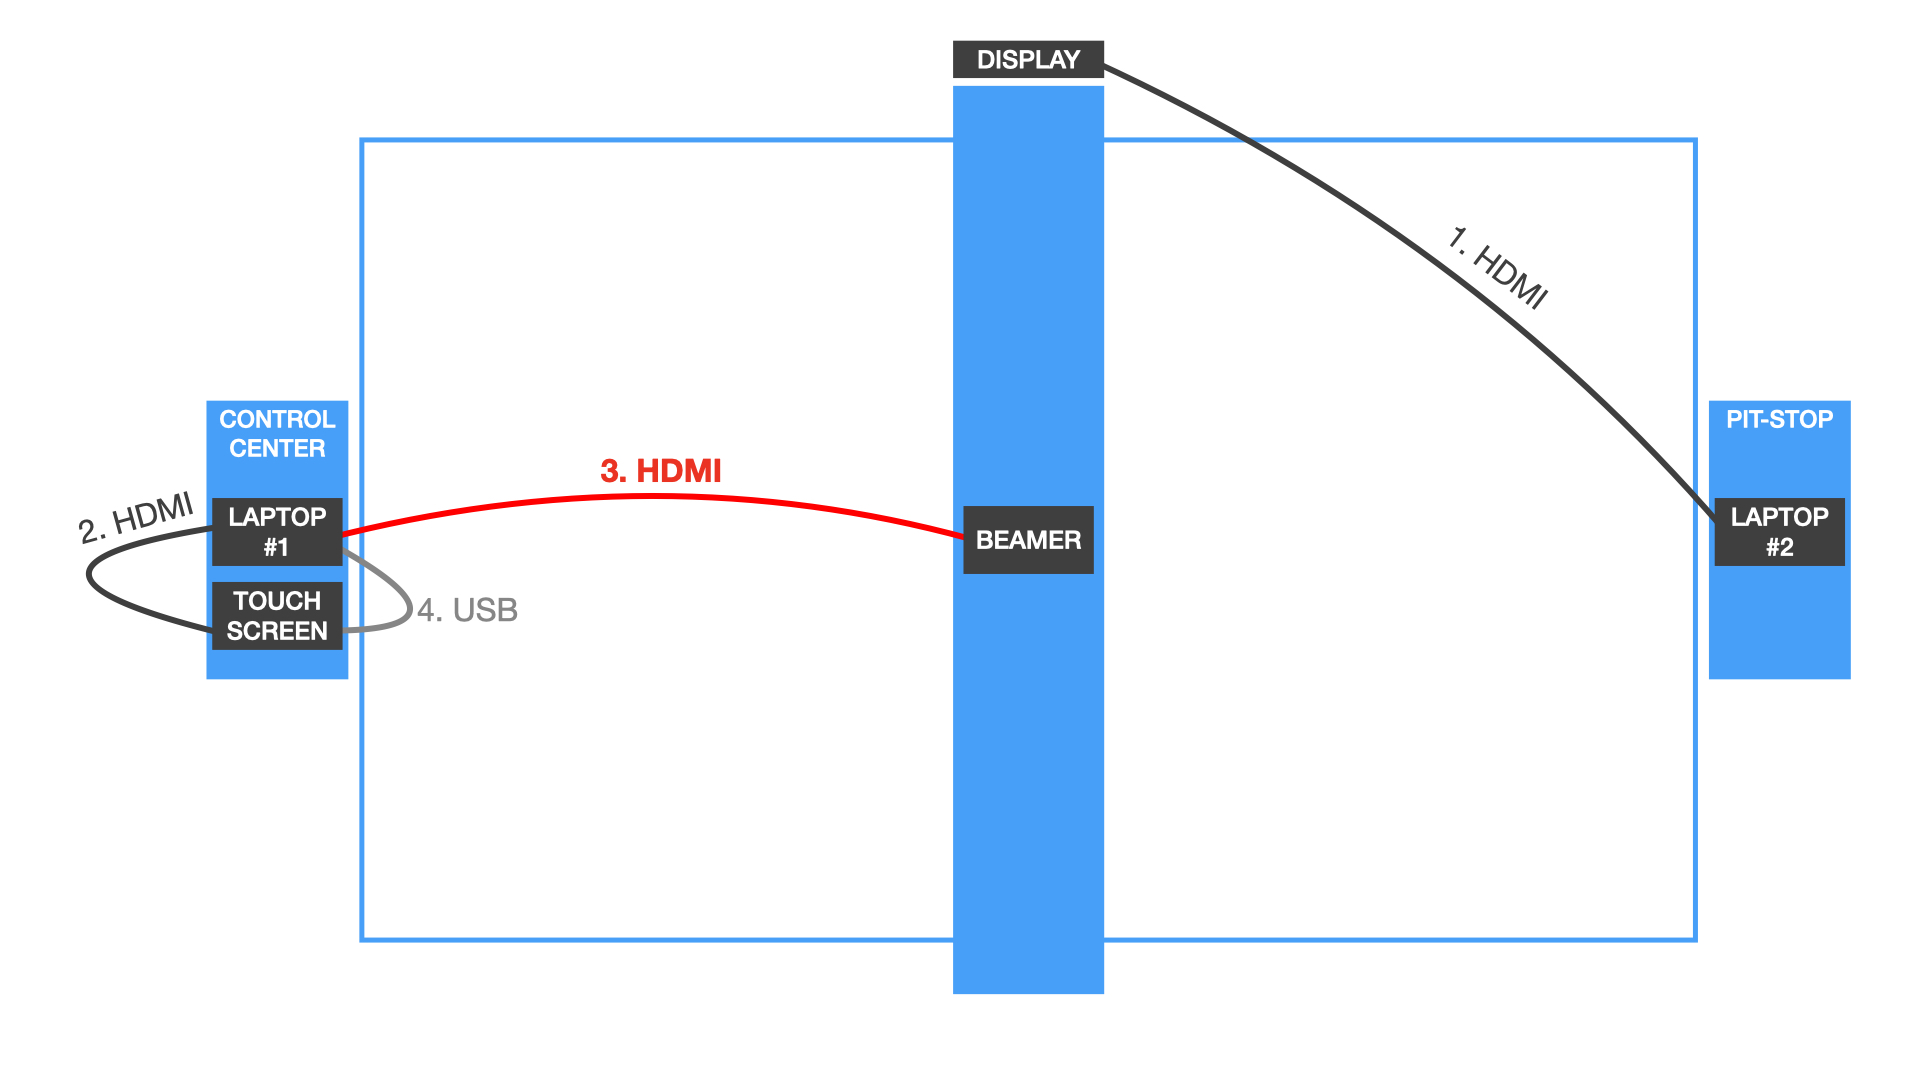
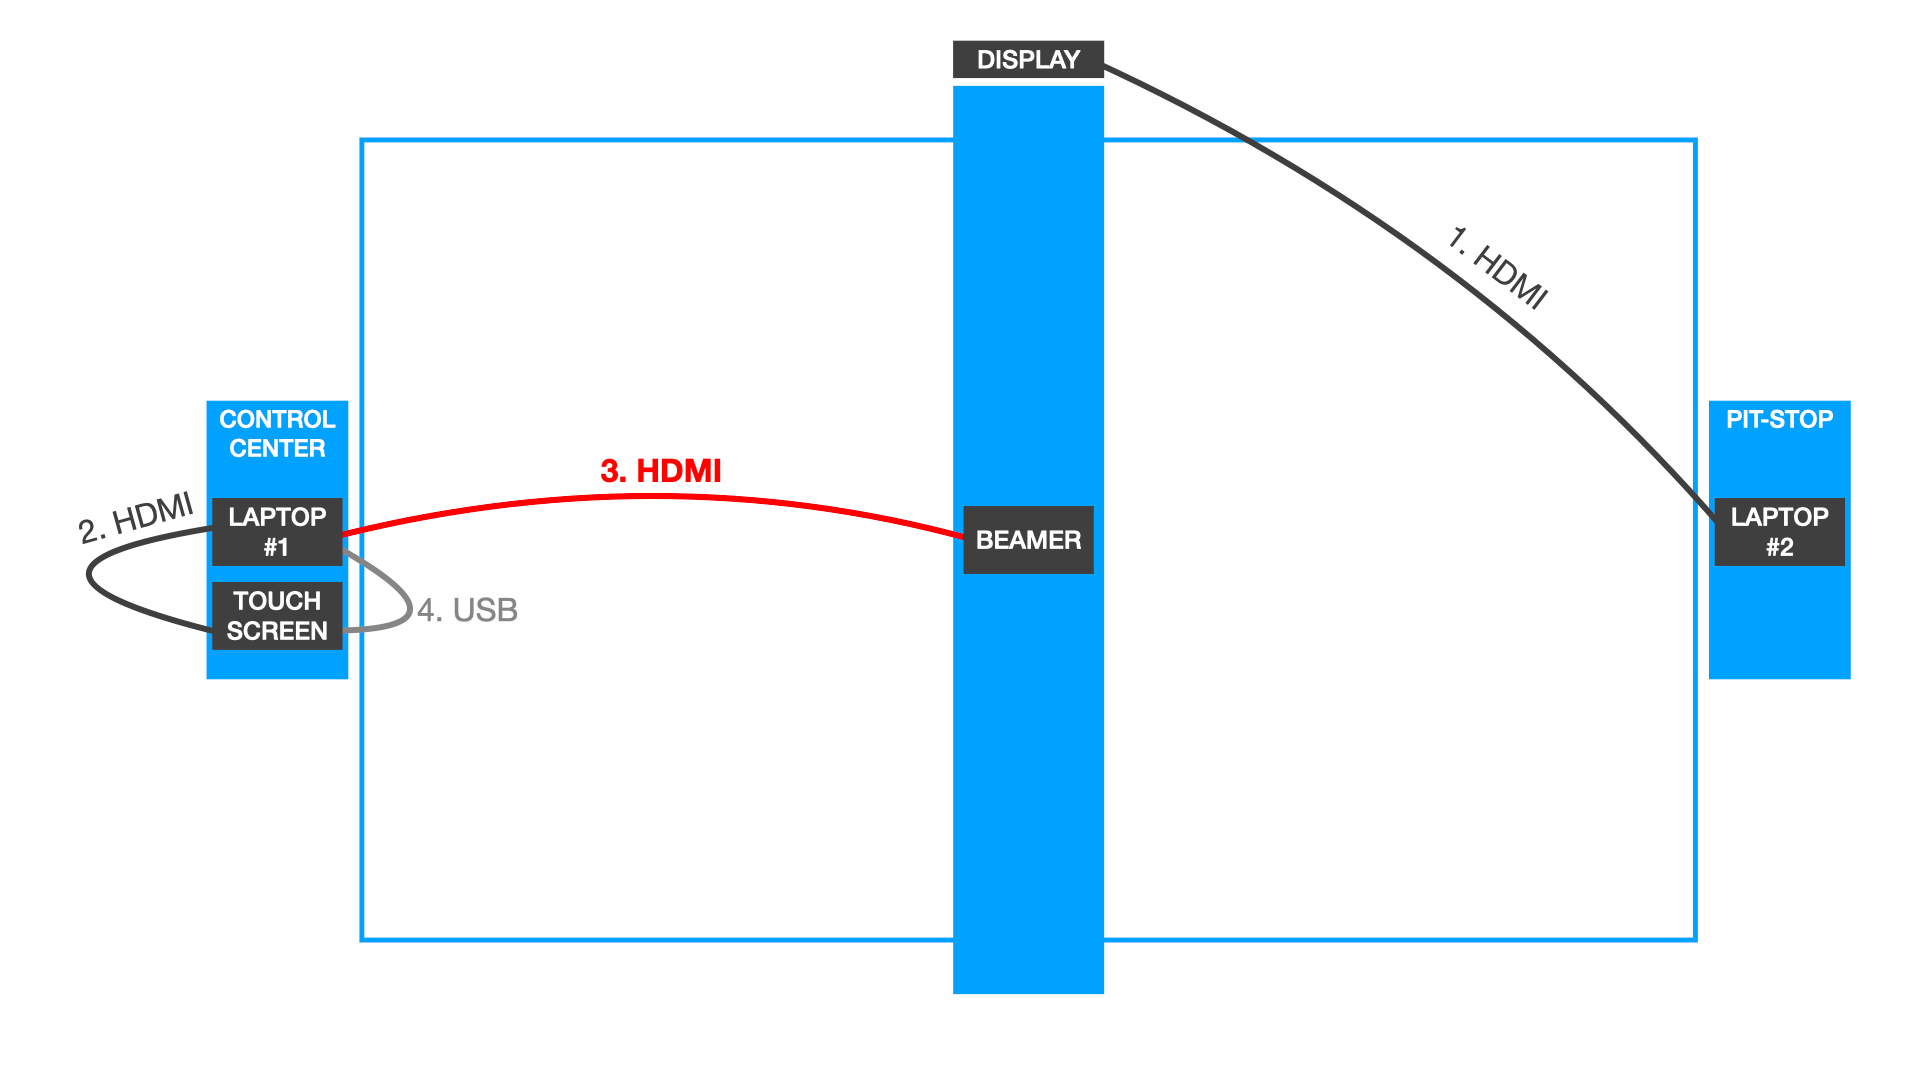
Reduce image size

diff --git a/README.md b/README.md
@@ -19,7 +19,7 @@ This guide will be structured as follows: The first part covers the [Daily Usage
 3. Wait until the small on-board OLED display on the car turns on
 4. Check if the battery is full (100%)
 
-   <img src="images/oled_display_battery.png" alt="On-board OLED and Battery %" width="350px"/>
+   <img src="images/oled_display_battery.jpg" alt="On-board OLED and Battery %" width="350px"/>
 
 5. If so, put the car on the raised wooden floor
 7. Otherwise, turn off the car, put it under charge, and select a car with full battery
@@ -28,7 +28,7 @@ This guide will be structured as follows: The first part covers the [Daily Usage
 1. Ensure that both laptops (#1 and #2) are connected to the power outlets (otherwise connect them)
 2. Use the `formulausi` account with the password: `phaenomena2026!`
 3. Ensure the Google Chrome option `View > Always Show Toolbar in Full Screen` is disabled
-   <img src="images/chrome-always_show_toolbar_fullscreen.png" alt="Google Chrome – View > Always Show Toolbar in Full Screen" width="300px"/>
+   <img src="images/chrome-always_show_toolbar_fullscreen.jpg" alt="Google Chrome – View > Always Show Toolbar in Full Screen" width="300px"/>
 5. Refer to the following section to configure the screens on the two laptops
 
 ### Configuration of the screens
@@ -38,14 +38,14 @@ This guide will be structured as follows: The first part covers the [Daily Usage
   - USB-C (with HDMI adapter) to connect the beamer (extended screen)
   - HDMI to connect the video to the touchscreen (extended or mirrored screen)
   - USB-C to connect the touch interface to the touchscreen 
-![laptop1-connections](images/laptop1-connections.png)
+![laptop1-connections](images/laptop1-connections.jpg)
 2. Open [System Settings](https://support.apple.com/en-gb/guide/imac/apda966cb8af/mac) and navigate to "Displays" settings
 3. Configure the touchscreen (PLT4339U) as `Main Display` as `Extended Screen` following [this guide](https://support.apple.com/en-is/guide/mac-help/mchlb5f905a1/mac)
 4. Configure the Built-in Display as `Mirror for PLT4339U`
 5. Configure the beamer (PT-REQ12EJ) as  `Extended Screen` following [this guide](https://support.apple.com/en-is/guide/mac-help/mchlb5f905a1/mac)
 6. ⚠ **Ensure that in the Settings of the [Touch-Up](https://github.com/shueber/Touch-Up) driver `Send mouse events to` is set to `PLT4339U`**
 7. To ensure that your mouse moves correctly between monitors, it is recommended to rearrange the position of your screens. To do so, click on the "Arrange" button (in "Displays" settings) and adjust the virtual display position to match your desired setup. Below you can find the recommended settings and arrangement
-![laptop1-screen_config](images/laptop1-screen_config-mirror.png)
+![laptop1-screen_config](images/laptop1-screen_config-mirror.jpg)
 
 ### Laptop #2 (Pit-stop)
 1. This laptop should have the following connection:
@@ -64,7 +64,7 @@ This guide will be structured as follows: The first part covers the [Daily Usage
 To enable touchscreen interactivity with MacOS, we installed the [Touch-Up](https://github.com/shueber/Touch-Up) driver. Please ensure the configuration of the driver are as follows: 
 
 <p align="center">
-  <img src="images/touch_up_settings.png" alt="Recommended Touch-Up Settings" width="600px"/> 
+  <img src="images/touch_up_settings.jpg" alt="Recommended Touch-Up Settings" width="600px"/> 
 </p>
 
 ### Cables
@@ -130,11 +130,11 @@ python manage.py drive --model models/MODEL_NAME.pt
 5. Move the cockpit on the display mounted on the side of the wooden structure that holds the beamer
 6. On the drive interface set the `(M)ode` to `Full (A)uto`:
 
-<img src="images/full_auto.png" alt="Full Auto Mode" width="400px"/>
+<img src="images/full_auto.jpg" alt="Full Auto Mode" width="400px"/>
 
 8. Slowly move the `AI multiplier` (which is initially set to 0.00) to values close to 1.00 (not less than 0.85). You might need to change this value after a few hours of operation, when the battery of the cars goes down (i.e., lower the battery, higher the multiplier).
 
-<img src="images/multiplier.png" alt="AI Multiplier" width="400px"/>
+<img src="images/multiplier.jpg" alt="AI Multiplier" width="400px"/>
 
 In case you want to stop the car, you can move back the `AI multiplier` to 0.00 or set the `(M)ode` to `(U)ser`
 
@@ -142,7 +142,7 @@ When you change the circuit and the scenario (i.e., surface and weather) on Path
 
 You can test the connection by changing the circuit, save it, and observing if there are changes in Circuit, Weather and Minimap:
 
-<img src="images/minimap.png" alt="Circuit, Weather, and Minimap" width="400px"/>
+<img src="images/minimap.jpg" alt="Circuit, Weather, and Minimap" width="400px"/>
 
 ## End of the day
 
@@ -202,7 +202,7 @@ There are two main reasons:
 2. The car could be damaged after several strong crashes. In this case, change the car with another one and contact us to return the damaged car, receiveing a new one as backup.
 
 <p align="center">
-  <img src="images/pavilion-lights.png" alt="Recommended Settings for Pavilion Lights" width="500px"/> 
+  <img src="images/pavilion-lights.jpg" alt="Recommended Settings for Pavilion Lights" width="500px"/> 
 </p>
 
 ### After an accident, one of the car's front steering arm fell off
@@ -212,7 +212,7 @@ Stop the car (set `Mode: User` in the drive interface) and reinstall the steerin
 3. Insert the steering arm on the side of the wheel
 4. Gently turn the genlty turn the front wheel inward
 
-![fix_steering_arm](images/fix_steering_arm.png)
+![fix_steering_arm](images/fix_steering_arm.jpg)
 
 ### The car unexpectedly shut down
 During the exhibition, the car may occasionally shut down unexpectedly. This typically happens due to overheating of the Raspberry Pi unit.
@@ -263,7 +263,7 @@ During the training phase, we drove the car for ~30 minutes using a PS4 Joystick
 For example, you can imagine that when the road in front of the car is completely straight, the Picture contains a straight road, the Throttle command will be 1.0 (full speed), and the Steering angle will be 0.0 (the car will go straight).
 When the road in front of the car presents a curve to the left, the Picture contains this curve, the Throttle command will be lower than 1.0 (not full speed when you have to turn), and the Steering angle will be lower than 0 (the car will turn left).
 
-![throttle_example](images/throttle_example.png)
+![throttle_example](images/throttle_example.jpg)
 
 Once we collected all the data, we trained the AI model using a mathematical optimization algorithm named **Backpropagation**. Basically, the model learns, given the image, to predict the Throttle and the Steering Angle that the driver used at the moment the input picture was taken. Initially, it predicts the values randomly, but during the process, it becomes more and more precise. Once it has learned to predict these values with good performance, it has essentially learned how to drive.
 
